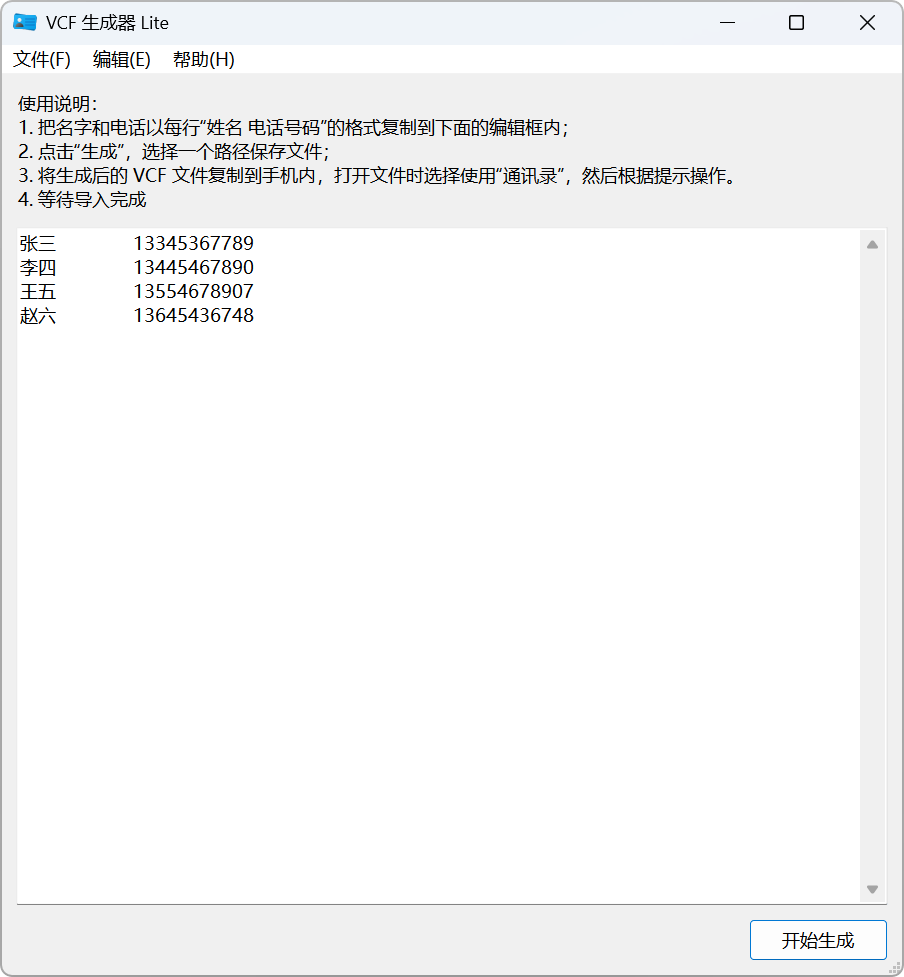
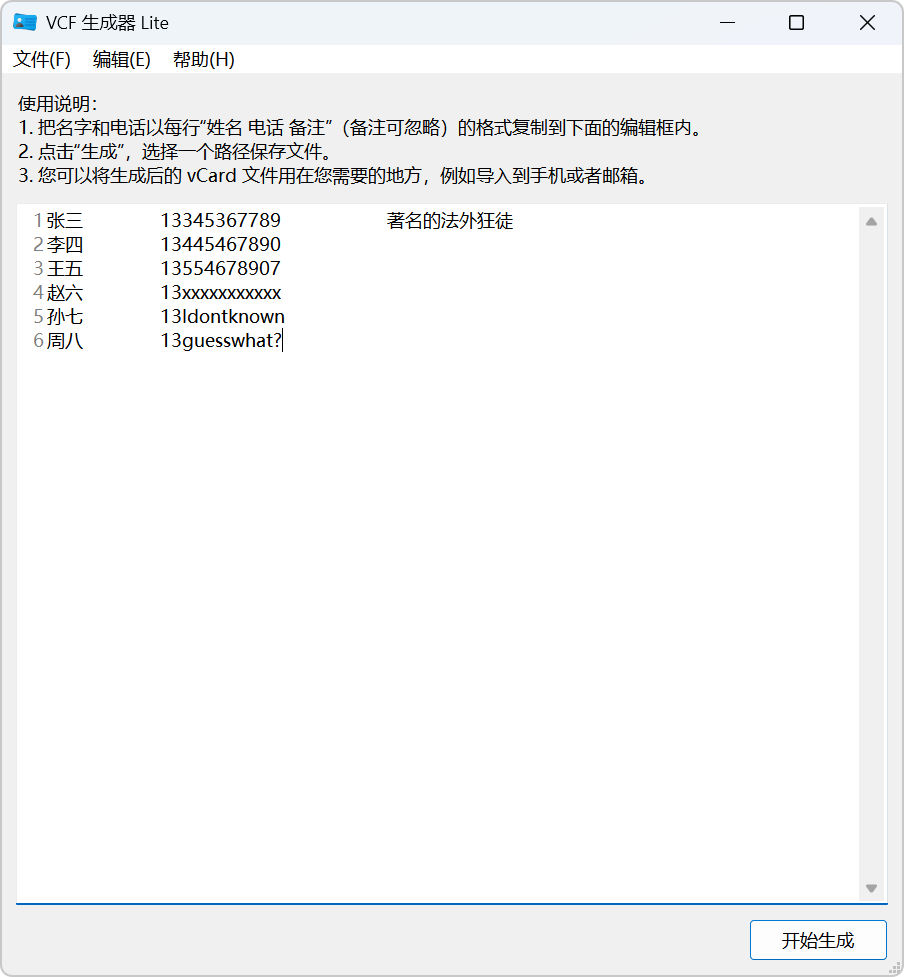
docs(README): 更新截图并调整图片尺寸
- 调整主窗口截图宽度从600px到451px
- 添加错误行展示窗口截图
- 更新中英文README文档的截图部分

Changed region(s): [[0.0, 0.1228, 0.8053, 0.3685], [0.0, 0.2456, 1.0, 1.0], [0.4336, 0.2149, 0.5575, 0.2456]]

diff --git a/README.md b/README.md
@@ -34,7 +34,8 @@ VCF Generator Lite is a lightweight tool that quickly converts name and phone nu
 
 ## Screenshot
 
-<img src="./assets/images/screenshots/main_window.zh-CN.webp" width="600" alt="Main window" />
+<img src="./assets/images/screenshots/main_window.zh-CN.webp" width="451" alt="Main window" />
+<img src="./assets/images/screenshots/invalid_lines_window.zh-CN.webp" width="376" alt="Invalid Lines Window" />
 
 ## Get the App
 
